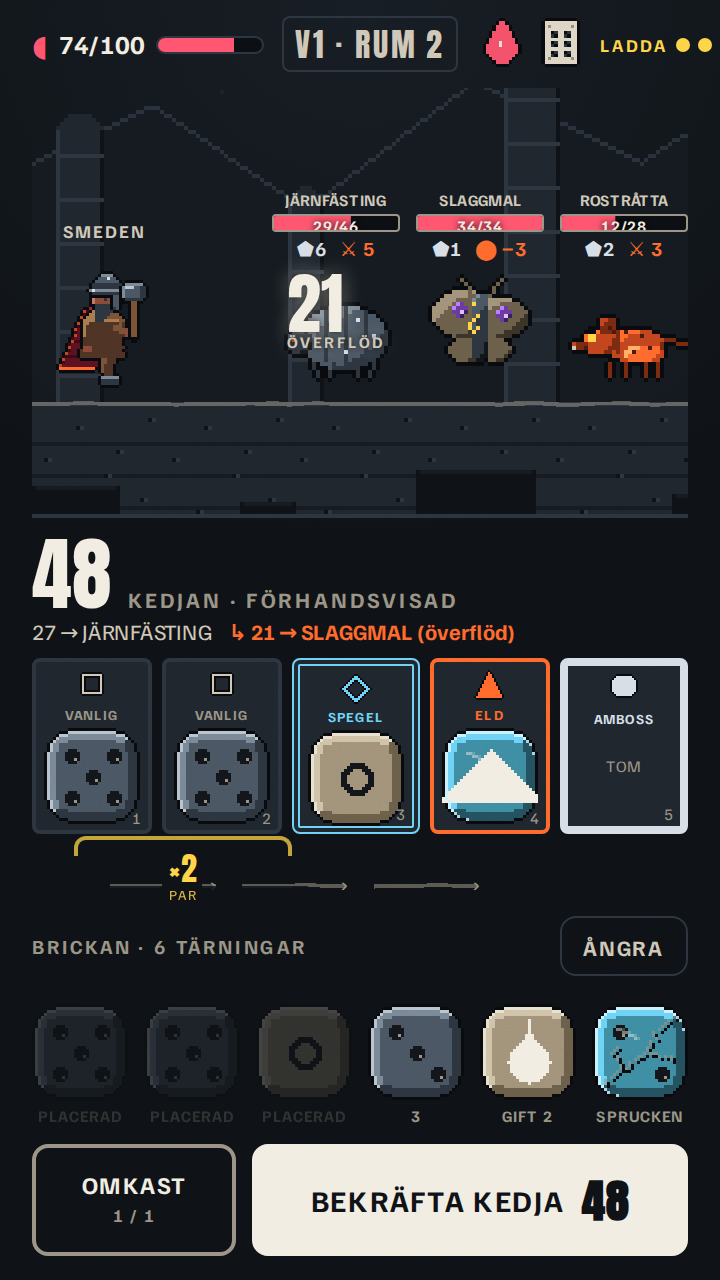
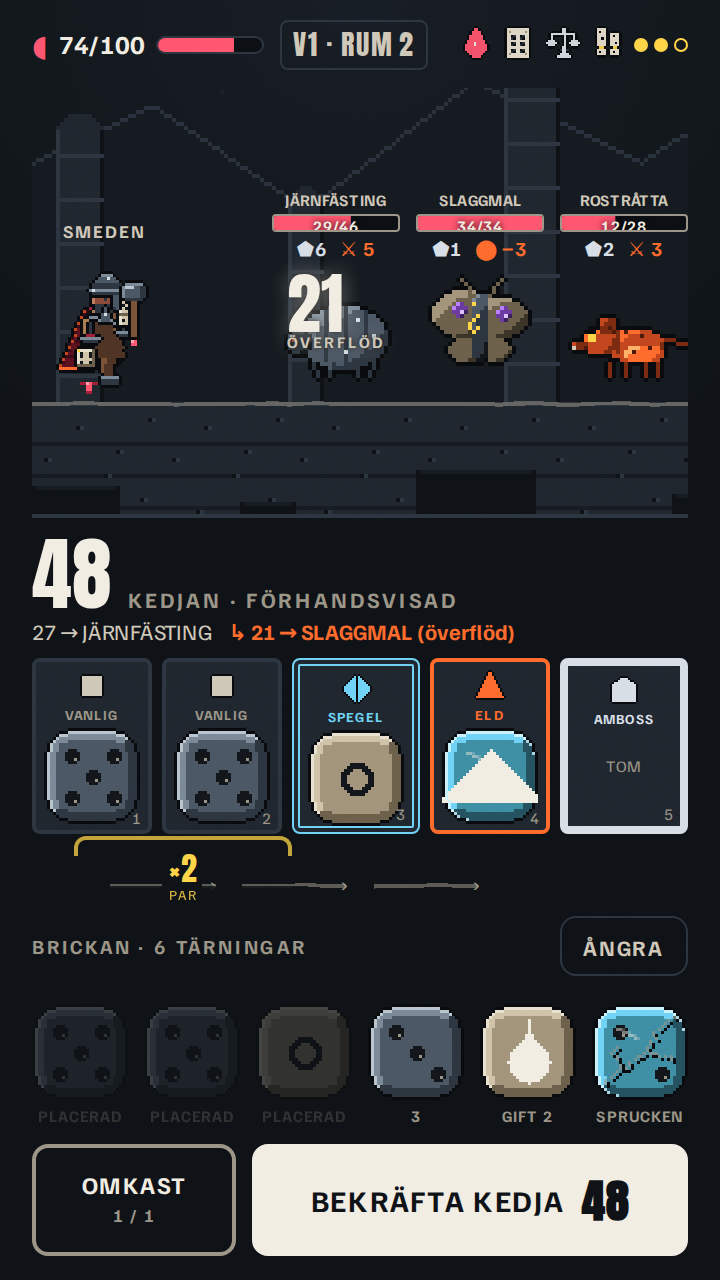
docs(design): light the relic layers in the pixel mockup, reshoot
The Smith is drawn with all nine paperdoll layers and four relics lit
(BLOOD_PRICE on fx, CHEAT_CUBE on offhand, BROKEN_SCALE on torso, DOMINO
on head) plus the new legs equipment layer. Enemy sheets are read as
hframes 4 / vframes 2 with row 0 shown; the background-size was still
sized for the old single row sheet.

Four relics in the tray clipped the charge meter at 360 dp, so tray icons
go 26 -> 20 px and the LADDA label drops below 380 dp. No information is
lost: the yellow dots already are sem/charge's shape code and the tray is
read only, so the 48 dp rule does not apply there.

Reshot at 360x640, 390x844 and 430x932: no horizontal or vertical scroll
on any size, 48 sprites load on each.

Claude-Session: https://claude.ai/code/session_015uKKpjompKtb1mv3yRQJxe

diff --git a/rogelike_app/design/mockup_combat_pixel.html b/rogelike_app/design/mockup_combat_pixel.html
@@ -49,18 +49,30 @@ body::after{
 }
 
 /* ===== Toppfält (krita) ===== */
-.top{flex:0 0 auto;display:flex;align-items:center;gap:9px;height:44px;white-space:nowrap}
+.top{flex:0 0 auto;display:flex;align-items:center;gap:8px;height:44px;white-space:nowrap}
 .hp{display:flex;align-items:center;gap:5px;font-size:13px;font-weight:700;letter-spacing:.04em}
 .hp .glyph{color:var(--blood);font-size:15px}
 .hpbar{width:54px;height:9px;border:1.5px solid var(--line);border-radius:999px;overflow:hidden;background:#0B0F13}
 .hpbar i{display:block;height:100%;width:74%;background:var(--blood)}
-.floor{font-family:'Anton',sans-serif;font-size:16px;letter-spacing:.06em;color:var(--chalk300);
+.floor{font-family:'Anton',sans-serif;font-size:15px;letter-spacing:.04em;color:var(--chalk300);flex:0 0 auto;
   border:1.5px solid var(--line);border-radius:var(--r-chip);padding:1px 6px}
-.relics{margin-left:auto;display:flex;gap:5px;align-items:center}
-.relics .px{width:26px;height:26px;background-size:26px 26px;opacity:.95}
-.charge{display:flex;align-items:center;gap:4px;font-size:9px;font-weight:700;letter-spacing:.1em;color:var(--charge)}
+.relics{margin-left:auto;display:flex;gap:4px;align-items:center;min-width:0}
+/* 16 px-ikon i x1,25. Fyra reliker + Ladda-matarens etikett ska rymmas pa
+   360 dp utan att nagot klipps - darfor 20 px, inte 26. Relikbrickan ar
+   las-endast (ingen traffyta), sa 48 dp-regeln galler inte har. */
+.relics .px{width:20px;height:20px;background-size:20px 20px;opacity:.95;flex:0 0 auto}
+.charge{display:flex;align-items:center;gap:3px;font-size:9px;font-weight:700;letter-spacing:.08em;color:var(--charge);flex:0 0 auto}
 .charge b{width:7px;height:7px;border-radius:50%;border:1.5px solid var(--charge);display:block}
 .charge b.on{background:var(--charge)}
+/* Liten skarm (360 dp): etiketten LADDA tas bort och relikikonerna gar ned
+   till 18 px. Ingen information forsvinner - de gula prickarna ar redan
+   sem/charge:s formkod (fylld cirkel, UI_GUIDE 2.3) och matarens antal star
+   kvar. Relikbrickan ar las-endast, sa 48 dp-regeln galler inte har. */
+@media (max-width:380px){
+  .charge .lbl{display:none}
+  .relics .px{width:18px;height:18px;background-size:18px 18px}
+  .floor{font-size:14px}
+}
 
 /* ===== Stridszon: pixelvarld (parallax + golv + figurer) pa kritgrop ===== */
 .arena{
@@ -86,18 +98,27 @@ body::after{
 .hero{position:relative;width:72px;height:72px;flex:0 0 auto;z-index:5}
 /* 48 px cell i x3 (x6 pa 2x-skarm) -> heltalsskala, inga halva pixlar */
 .hero .lyr{position:absolute;inset:0;width:72px;height:72px;background-size:576px 288px;background-position:0 0}
+/* Lagerordningen ar exakt PAPERDOLL.md sect 2. Reliklagren (M2) ligger tanda
+   har: BLOOD_PRICE pa fx, CHEAT_CUBE pa offhand, BROKEN_SCALE pa torso. */
 .hero .cape{background-image:url('../assets/sprites/hero/smith_cape_ember.png');z-index:0}
+.hero .legs{background-image:url('../assets/sprites/hero/smith_legs_iron.png');z-index:1}
 .hero .body{background-image:url('../assets/sprites/hero/smith_body.png');z-index:2}
+.hero .torso{background-image:url('../assets/sprites/hero/smith_torso_broken_scale.png');z-index:3}
+.hero .head{background-image:url('../assets/sprites/hero/smith_head_domino.png');z-index:4}
 .hero .helm{background-image:url('../assets/sprites/hero/smith_helm_iron.png');z-index:5}
+.hero .offh{background-image:url('../assets/sprites/hero/smith_offhand_cheat_cube.png');z-index:6}
 .hero .weap{background-image:url('../assets/sprites/hero/smith_weapon_hammer.png');z-index:7}
+.hero .fx{background-image:url('../assets/sprites/hero/smith_fx_blood_price.png');z-index:8}
 .hero .tag{position:absolute;left:50%;transform:translateX(-50%);top:-15px;
   font-size:9px;font-weight:700;letter-spacing:.12em;color:var(--chalk300)}
 
 .foes{display:flex;align-items:flex-end;gap:var(--s2);flex:1 1 auto;justify-content:flex-end;z-index:5}
 /* Krit-data ligger OVANFOR pixelvarelsen; varelsen star pa golvet. */
 .foe{display:flex;flex-direction:column;align-items:center;gap:2px;width:64px;position:relative}
-.foe .spr{width:64px;height:64px;background-size:256px 64px;background-position:0 0}
-.foe.boss .spr{width:72px;height:72px;background-size:288px 72px}
+/* Arket ar nu hframes 4 / vframes 2 (rad 1 = death), sa bakgrunden ar
+   dubbelt sa hog och background-position halls pa rad 0. */
+.foe .spr{width:64px;height:64px;background-size:256px 128px;background-position:0 0}
+.foe.boss .spr{width:72px;height:72px;background-size:288px 144px}
 .foe .nm{font-size:8px;font-weight:700;letter-spacing:.02em;color:var(--chalk300);text-transform:uppercase}
 .ehp{width:100%;height:9px;border:1.5px solid var(--chalk500);border-radius:2px;background:#0B0F13;position:relative;overflow:hidden}
 .ehp i{position:absolute;inset:0;background:var(--blood);transform-origin:left}
@@ -199,9 +220,11 @@ body::after{
     </div>
     <div class="floor">V1 · RUM 2</div>
     <div class="relics">
-      <div class="px" style="background-image:url('../assets/sprites/items/relic_blood_price.png')" title="BLOOD_PRICE"></div>
-      <div class="px" style="background-image:url('../assets/sprites/items/relic_cheat_cube.png')" title="CHEAT_CUBE"></div>
-      <div class="charge">LADDA<b class="on"></b><b class="on"></b><b></b></div>
+      <div class="px" style="background-image:url('../assets/sprites/items/relic_blood_price.png')" title="BLOOD_PRICE - fx"></div>
+      <div class="px" style="background-image:url('../assets/sprites/items/relic_cheat_cube.png')" title="CHEAT_CUBE - offhand"></div>
+      <div class="px" style="background-image:url('../assets/sprites/items/relic_broken_scale.png')" title="BROKEN_SCALE - torso"></div>
+      <div class="px" style="background-image:url('../assets/sprites/items/relic_domino.png')" title="DOMINO - head"></div>
+      <div class="charge"><span class="lbl">LADDA</span><b class="on"></b><b class="on"></b><b></b></div>
     </div>
   </div>
 
@@ -214,9 +237,14 @@ body::after{
 
     <div class="hero">
       <div class="lyr cape px"></div>
+      <div class="lyr legs px"></div>
       <div class="lyr body px"></div>
+      <div class="lyr torso px"></div>
+      <div class="lyr head px"></div>
       <div class="lyr helm px"></div>
+      <div class="lyr offh px"></div>
       <div class="lyr weap px"></div>
+      <div class="lyr fx px"></div>
       <div class="tag">SMEDEN</div>
     </div>
 

diff --git a/rogelike_app/docs/UI_GUIDE.md b/rogelike_app/docs/UI_GUIDE.md
@@ -833,6 +833,7 @@ stängs av ovan har en ersättare som bär samma information på samma tid.
 - `design/wireframe_reward.html` – belöningsval 1 av 3 med sällsynthetsfärg + ramform + utskrivet ord, samt referensremsa över hela skalan.
 - `design/mockup_combat_pixel.html` – **hybriden med riktiga sprite-PNG:er**: Smeden som paperdoll-stapel (kappa → kropp → hjälm → vapen), tre fiender från rum 2 (`IRON_TICK`, `SLAG_MOTH`, `RUST_RAT`), tärningar komponerade som i Godot (kropp + pip/glyph + glaskant + spricka), tre parallaxlager + golvtile, allt under samma krit-UI.
 - `design/shader_preview_palette.tscn`, `design/shader_preview_chalk.tscn` – Godot-scener för de två shadrarna, öppnas direkt i editorn.
+- `design/shader_probe.tscn` + `tools/shader_probe.gd` + `design/probe_ramp.png` – **mätscen**, inte förhandsvisning. Renderar 16 kända färger till en `SubViewport` och läser tillbaka pixlarna. Exit 0 = passthrough, LUT-väg och modulate stämmer på byten. Körs per renderare under `xvfb-run`.
 - `design/fonts/` – lokala latin-subset av Anton, Familjen Grotesk och Caveat Brush. Mockuperna är helt självständiga och gör ingen nätverkstrafik.
 - `design/screenshots/` – renderade headless i Chromium.
 
@@ -843,7 +844,18 @@ stängs av ovan har en ersättare som bär samma information på samma tid.
 | Strid (wireframe) | ingen scroll | ingen scroll | ingen scroll |
 | Strid, kedja spelas upp | ingen scroll | ingen scroll | ingen scroll |
 | Belöning | ingen scroll | ingen scroll | ingen scroll |
-| **Strid, hybrid pixel + krita** | ingen scroll | ingen scroll | ingen scroll |
+| **Strid, hybrid pixel + krita (M2, reliklager tända)** | ingen scroll | ingen scroll | ingen scroll |
+
+**M2-uppdatering av `mockup_combat_pixel.html`:** Smeden ritas nu med alla nio
+paperdoll-lagren och fyra tända reliker – `BLOOD_PRICE` (`fx`), `CHEAT_CUBE`
+(`offhand`), `BROKEN_SCALE` (`torso`), `DOMINO` (`head`) – plus
+utrustningslagret `legs`. Fiendearken läses som `hframes 4 / vframes 2` med
+rad 0 synlig. Slot-ikonerna är de nya formerna ur §2.4.
+
+Relikbrickan i toppfältet gick från 26 till 20 px per ikon, och på ≤ 380 dp
+faller etiketten `LADDA` bort (prickarna bär redan informationen, §2.3). Utan
+det klipptes Ladda-mätaren på 360 dp när fyra reliker låg i brickan. Brickan är
+**läs-endast**, så 48 dp-regeln gäller inte där.
 
 Ingen horisontell scroll och ingen vertikal scroll på någon storlek; allt ryms inom viewporten.
 Tärningsstorleken i brickan är `clamp(46px, (100vw − 62px)/6, 58px)` vilket ger **49,7 dp på 360 dp bredd** – över 48 dp-kravet även på den smalaste målskärmen.
